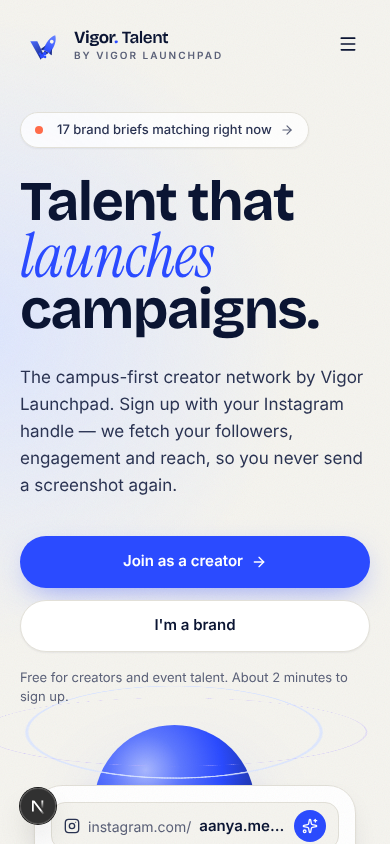
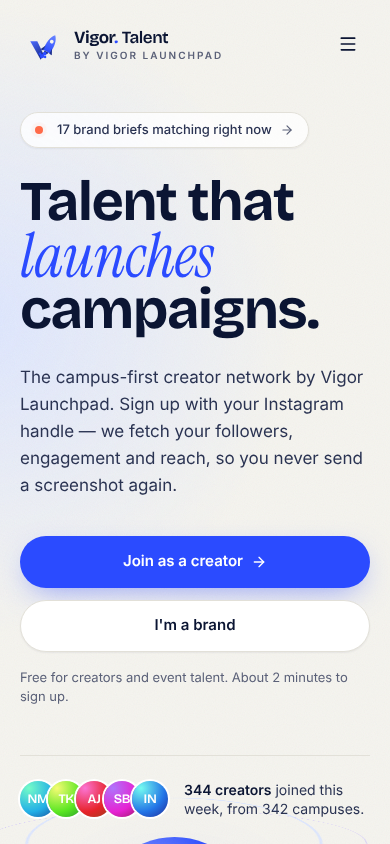
Redesign marketing surface: 3D hero, storytelling, SEO pages
Claude-Session: https://claude.ai/code/session_016vkZpp1ZgAERbBbWqtPV6G

Changed region(s): [[0.0308, 0.8318, 0.9231, 1.0]]

diff --git a/app/colleges/[slug]/page.tsx b/app/colleges/[slug]/page.tsx
@@ -1,0 +1,155 @@
+import type { Metadata } from "next";
+import Link from "next/link";
+import { notFound } from "next/navigation";
+import { ArrowRight, ArrowUpRight, Check, GraduationCap } from "lucide-react";
+import { HeaderBar } from "@/components/landing/header-bar";
+import { SiteFooter } from "@/components/marketing/site-footer";
+import { Faq, Serif } from "@/components/landing/sections";
+import { JsonLd, breadcrumbs, faqPage } from "@/components/marketing/json-ld";
+import { Breadcrumbs, CreatorTile, H2, StatRow } from "@/components/marketing/seo-blocks";
+import { COLLEGES, campusKind, cityStats, collegeSlug, collegeStats, collegesIn, creatorsIn, fmtIN, getCollege } from "@/components/marketing/seo-data";
+import { SITE } from "@/lib/site";
+
+export const dynamicParams = false;
+export const generateStaticParams = () => COLLEGES.map((c) => ({ slug: collegeSlug(c) }));
+
+type Props = { params: Promise<{ slug: string }> };
+
+export async function generateMetadata({ params }: Props): Promise<Metadata> {
+  const c = getCollege((await params).slug);
+  if (!c) return {};
+  const s = collegeStats(c);
+  const k = campusKind(c);
+  const short = c.short ?? c.name;
+  const title = `${short} creators & campus ambassadors — ${s.city.name}`;
+  const description = `About ${s.creators} student creators from ${c.name}, ${s.city.name} (${k.kind}). Average engagement ${s.er}%. Hire ${short} campus ambassadors and creators, or join free with your Instagram handle.`;
+  return {
+    title, description,
+    alternates: { canonical: `/colleges/${collegeSlug(c)}` },
+    openGraph: { url: `/colleges/${collegeSlug(c)}`, title: `${title} · ${SITE.name}`, description, type: "website", locale: "en_IN" },
+    twitter: { card: "summary_large_image", title, description },
+  };
+}
+
+export default async function CollegePage({ params }: Props) {
+  const c = getCollege((await params).slug);
+  if (!c) notFound();
+  const s = collegeStats(c);
+  const city = s.city;
+  const k = campusKind(c);
+  const short = c.short ?? c.name;
+  const cs = cityStats(city);
+  const nearby = creatorsIn(city).filter((x) => x.status === "approved" && x.college_id !== c.id).sort((a, b) => b.engagement_rate - a.engagement_rate);
+  const creators = [...s.sample, ...nearby].slice(0, 3);
+  const siblings = collegesIn(city).filter((x) => x.id !== c.id);
+
+  const faqs = [
+    { q: `Can ${short} students join Vigor Talent Network?`, a: `Yes. Sign up free with your Instagram handle, answer "yes" to "are you in college?" and pick ${c.name}. You unlock ambassador, fest and sampling briefs at ${short}.` },
+    { q: `How many creators are at ${short}?`, a: `About ${s.creators} creators in the network list ${c.name} as their college, with an average engagement rate of ${s.er}%.` },
+    { q: `Can brands target only ${short}?`, a: `Yes. Brands can target a single campus, a group of ${city.name} campuses or a graduating batch. Send a brief and Vigor shares a ${short} shortlist within one working day.` },
+  ];
+
+  const ld = [
+    breadcrumbs(SITE.url, [{ name: "Home", path: "/" }, { name: `Creators in ${city.name}`, path: `/creators/${city.slug}` }, { name: short, path: `/colleges/${collegeSlug(c)}` }]),
+    {
+      "@context": "https://schema.org", "@type": "WebPage",
+      name: `${short} creators & campus ambassadors`, url: `${SITE.url}/colleges/${collegeSlug(c)}`, inLanguage: "en-IN",
+      isPartOf: { "@type": "WebSite", name: SITE.name, url: SITE.url },
+      about: {
+        "@type": "CollegeOrUniversity", name: c.name, ...(c.short ? { alternateName: c.short } : {}),
+        ...(c.domains?.[0] ? { url: `https://${c.domains[0]}` } : {}),
+        address: { "@type": "PostalAddress", addressLocality: city.name, addressRegion: city.state, addressCountry: "IN" },
+      },
+    },
+    faqPage(faqs),
+  ];
+
+  return (
+    <>
+      <JsonLd data={ld} />
+      <HeaderBar />
+      <main id="main" className="overflow-x-clip">
+        <section className="grain relative isolate pb-16 pt-32 sm:pt-40" aria-labelledby="col-title">
+          <div aria-hidden className="pointer-events-none absolute inset-0 -z-10">
+            <div className="absolute left-[-15%] top-[-20rem] h-[50rem] w-[50rem] rounded-full bg-[radial-gradient(closest-side,rgb(220_229_255/.95),transparent_70%)]" />
+          </div>
+          <div className="mx-auto grid max-w-[1240px] gap-12 px-5 sm:px-8 lg:grid-cols-[minmax(0,1.2fr)_minmax(0,0.8fr)] lg:items-end lg:gap-16">
+            <div>
+              <Breadcrumbs items={[{ name: "Home", href: "/" }, { name: city.name, href: `/creators/${city.slug}` }, { name: short }]} />
+              <h1 id="col-title" className="mt-6 font-display text-[clamp(3rem,6.6vw,5.5rem)] font-bold leading-[0.94] tracking-[-0.05em] text-ink">
+                Creators at <Serif>{short}</Serif>
+              </h1>
+              <p className="mt-4 text-[15px] font-medium text-mute">{c.name} · {city.name}, {city.state}</p>
+              <p className="mt-6 max-w-xl text-[18px] leading-relaxed text-ink-2">
+                A {k.kind} campus in {city.name}. {k.angle}
+              </p>
+            </div>
+            <div className="rounded-[28px] bg-night p-6 text-white shadow-lg sm:p-8">
+              <p className="text-[14px] text-white/70">Studying at {short}?</p>
+              <p className="mt-2 font-display text-[28px] font-bold leading-[1.05] tracking-[-0.035em]">We ask one question: <em className="font-serif font-normal text-cobalt-300">are you in college?</em></p>
+              <ul className="mt-5 space-y-2 text-[14.5px] text-white/85">
+                {["Join with your Instagram handle", `Pick ${short} — unlock campus briefs`, "Get paid per campaign"].map((t) => (
+                  <li key={t} className="flex items-center gap-2"><Check className="h-4 w-4 text-mint" aria-hidden />{t}</li>
+                ))}
+              </ul>
+              <Link href="/register?type=influencer" className="btn-flame btn-lg group mt-7 w-full">Join from {short} <ArrowRight className="h-4 w-4 transition-transform group-hover:translate-x-0.5" aria-hidden /></Link>
+            </div>
+          </div>
+          <div className="mx-auto mt-14 max-w-[1240px] px-5 sm:px-8">
+            <StatRow stats={[
+              { value: fmtIN(s.creators), label: `Creators at ${short}` },
+              { value: `${s.er}%`, label: "Avg engagement" },
+              { value: fmtIN(cs.creators), label: `Creators in ${city.name}` },
+              { value: cs.campuses, label: `${city.name} campuses` },
+            ]} />
+          </div>
+        </section>
+
+        <section className="py-20 sm:py-24" aria-labelledby="mix-title">
+          <div className="mx-auto max-w-[1240px] px-5 sm:px-8">
+            <div className="flex flex-col gap-6 lg:flex-row lg:items-end lg:justify-between">
+              <div>
+                <H2 id="mix-title">{s.sample.length ? `From ${short}` : `Near ${short}`}</H2>
+                <p className="mt-4 max-w-xl text-[16px] text-ink-2">{s.sample.length ? "Creators who list this campus, with stats fetched from Instagram." : `Top ${city.name} creators on nearby campuses — a ${short} shortlist is built per brief.`}</p>
+              </div>
+              <div>
+                <h3 className="text-[13px] font-medium text-mute">Strong niches on this campus</h3>
+                <ul className="mt-2 flex flex-wrap gap-2">{k.niches.map((n) => <li key={n} className="chip h-8 px-3 text-[13px]">{n}</li>)}</ul>
+              </div>
+            </div>
+            <ul className="mt-10 grid gap-4 sm:grid-cols-2 lg:grid-cols-3">{creators.map((x) => <CreatorTile key={x.id} c={x} />)}</ul>
+          </div>
+        </section>
+
+        <section className="border-y border-line bg-surface/60 py-20 sm:py-24" aria-labelledby="sib-title">
+          <div className="mx-auto max-w-[1240px] px-5 sm:px-8">
+            <div className="flex flex-col gap-3 sm:flex-row sm:items-end sm:justify-between">
+              <H2 id="sib-title">More {city.name} campuses</H2>
+              <Link href={`/creators/${city.slug}`} className="inline-flex items-center gap-1 text-[15px] font-semibold text-cobalt hover:underline">All creators in {city.name} <ArrowUpRight className="h-4 w-4" aria-hidden /></Link>
+            </div>
+            <ul className="mt-10 grid gap-3 sm:grid-cols-2 lg:grid-cols-4">
+              {siblings.map((x) => (
+                <li key={x.id}>
+                  <Link href={`/colleges/${collegeSlug(x)}`} className="flex min-h-14 items-center gap-3 rounded-[20px] border border-line bg-surface px-4 py-3 transition-colors hover:border-cobalt-200">
+                    <GraduationCap className="h-4 w-4 shrink-0 text-cobalt" aria-hidden /><span className="truncate text-[14.5px] font-medium text-ink">{x.short ?? x.name}</span>
+                  </Link>
+                </li>
+              ))}
+            </ul>
+          </div>
+        </section>
+
+        <section className="py-20 sm:py-24" aria-labelledby="colfaq-title">
+          <div className="mx-auto grid max-w-[1240px] gap-10 px-5 sm:px-8 lg:grid-cols-[minmax(0,0.8fr)_minmax(0,1.2fr)] lg:gap-16">
+            <div>
+              <H2 id="colfaq-title">{short}, <Serif>answered</Serif>.</H2>
+              <Link href="/brands" className="btn-dark btn-lg mt-8">Hire {short} creators</Link>
+            </div>
+            <Faq items={faqs} />
+          </div>
+        </section>
+      </main>
+      <SiteFooter />
+    </>
+  );
+}

diff --git a/components/marketing/choice-card.tsx b/components/marketing/choice-card.tsx
@@ -22,7 +22,7 @@ export function ChoiceCard({ href, kicker, title, desc, perks, cta, preview, fea
         <span className={clsx("text-[13px] font-medium", featured ? "text-white/75" : "text-cobalt")}>{kicker}</span>
         <h2 className="mt-1.5 font-display text-[28px] font-bold leading-[1.05] tracking-[-0.035em]">{title}</h2>
         <p className={clsx("mt-2 text-[15px] leading-relaxed", featured ? "text-white/80" : "text-ink-2")}>{desc}</p>
-        <ul className="mt-5 space-y-2.5">
+        <ul className="mb-8 mt-5 space-y-2.5">
           {perks.map((p) => (
             <li key={p} className={clsx("flex items-start gap-2.5 text-[14.5px]", featured ? "text-white/90" : "text-ink-2")}>
               <span className={clsx("mt-0.5 grid h-5 w-5 shrink-0 place-items-center rounded-full", featured ? "bg-white/20 text-white" : "bg-cobalt-50 text-cobalt")}><Check className="h-3 w-3" aria-hidden /></span>
@@ -30,7 +30,7 @@ export function ChoiceCard({ href, kicker, title, desc, perks, cta, preview, fea
             </li>
           ))}
         </ul>
-        <span className={clsx("mt-8 inline-flex h-12 items-center justify-between rounded-full pl-5 pr-1.5 text-[15px] font-semibold transition-colors", featured ? "bg-white text-cobalt" : "bg-ink text-white group-hover:bg-night-3")}>
+        <span className={clsx("mt-auto inline-flex h-12 items-center justify-between rounded-full pl-5 pr-1.5 text-[15px] font-semibold transition-colors", featured ? "bg-white text-cobalt" : "bg-ink text-white group-hover:bg-night-3")}>
           {cta}
           <span className={clsx("grid h-9 w-9 place-items-center rounded-full transition-transform duration-300 ease-out-expo group-hover:translate-x-0.5", featured ? "bg-cobalt text-white" : "bg-white/15")}>
             <ArrowRight className="h-4 w-4" aria-hidden />

diff --git a/components/marketing/enquiry-form.tsx b/components/marketing/enquiry-form.tsx
@@ -127,7 +127,7 @@ export function EnquiryForm({ serverError }: { serverError?: string }) {
           aria-describedby={errors.requirement ? "f-requirement-err" : "f-requirement-hint"}
           onBlur={() => revalidate("requirement")}
           onChange={(e) => { setReqLen(e.target.value.trim().length); if (errors.requirement) revalidate("requirement"); }}
-          className={clsx("input resize-y leading-relaxed", errors.requirement && "border-bad focus:border-bad focus:ring-bad/15")}
+          className={clsx("textarea min-h-32 resize-y leading-relaxed", errors.requirement && "border-bad focus:border-bad focus:ring-bad/15")}
           placeholder="e.g. 40 food creators in Pune + Mumbai for a menu launch, reels + stories, plus 20 promoters for 6 campus activations in March."
         />
         {errors.requirement ? (
@@ -193,7 +193,7 @@ function Submit() {
       {pending ? (
         <><LoaderCircle className="h-4 w-4 animate-spin" aria-hidden="true" /> Sending…</>
       ) : (
-        <>Send requirement <ArrowRight className="h-4 w-4 transition-transform duration-200 group-hover:translate-x-0.5" aria-hidden="true" /></>
+        <>Send brief <ArrowRight className="h-4 w-4 transition-transform duration-200 group-hover:translate-x-0.5" aria-hidden="true" /></>
       )}
     </button>
   );

diff --git a/app/sitemap.ts b/app/sitemap.ts
@@ -1,12 +1,16 @@
 import type { MetadataRoute } from "next";
 import { SITE } from "@/lib/site";
+import { CITY_INFO, COLLEGES, collegeSlug } from "@/components/marketing/seo-data";
 
 export default function sitemap(): MetadataRoute.Sitemap {
   const now = new Date();
-  return ["", "/join", "/brands", "/register?type=influencer", "/register?type=event", "/login"].map((p) => ({
-    url: `${SITE.url}${p}`,
-    lastModified: now,
-    changeFrequency: p === "" ? "weekly" : "monthly",
-    priority: p === "" ? 1 : 0.6,
-  }));
+  const core: MetadataRoute.Sitemap = [
+    { url: SITE.url, lastModified: now, changeFrequency: "weekly", priority: 1 },
+    { url: `${SITE.url}/join`, lastModified: now, changeFrequency: "monthly", priority: 0.9 },
+    { url: `${SITE.url}/brands`, lastModified: now, changeFrequency: "monthly", priority: 0.9 },
+    { url: `${SITE.url}/login`, lastModified: now, changeFrequency: "yearly", priority: 0.3 },
+  ];
+  const cities = CITY_INFO.map((c) => ({ url: `${SITE.url}/creators/${c.slug}`, lastModified: now, changeFrequency: "weekly" as const, priority: 0.8 }));
+  const colleges = COLLEGES.map((c) => ({ url: `${SITE.url}/colleges/${collegeSlug(c)}`, lastModified: now, changeFrequency: "monthly" as const, priority: 0.6 }));
+  return [...core, ...cities, ...colleges];
 }

diff --git a/components/landing/hero.tsx b/components/landing/hero.tsx
@@ -66,7 +66,7 @@ export function Hero() {
         </div>
 
         {/* visual: WebGL object + floating cards + live demo */}
-        <div className="relative mx-auto aspect-[1/1.02] w-full max-w-[640px] lg:mr-[-2rem] lg:mt-[-6.5rem]">
+        <div className="relative mx-auto aspect-[1/1.02] w-full max-w-[640px] lg:mr-[-2rem] lg:mt-[-1.5rem]">
           <Hero3D className="absolute inset-[-6%]" />
 
           {a && (
